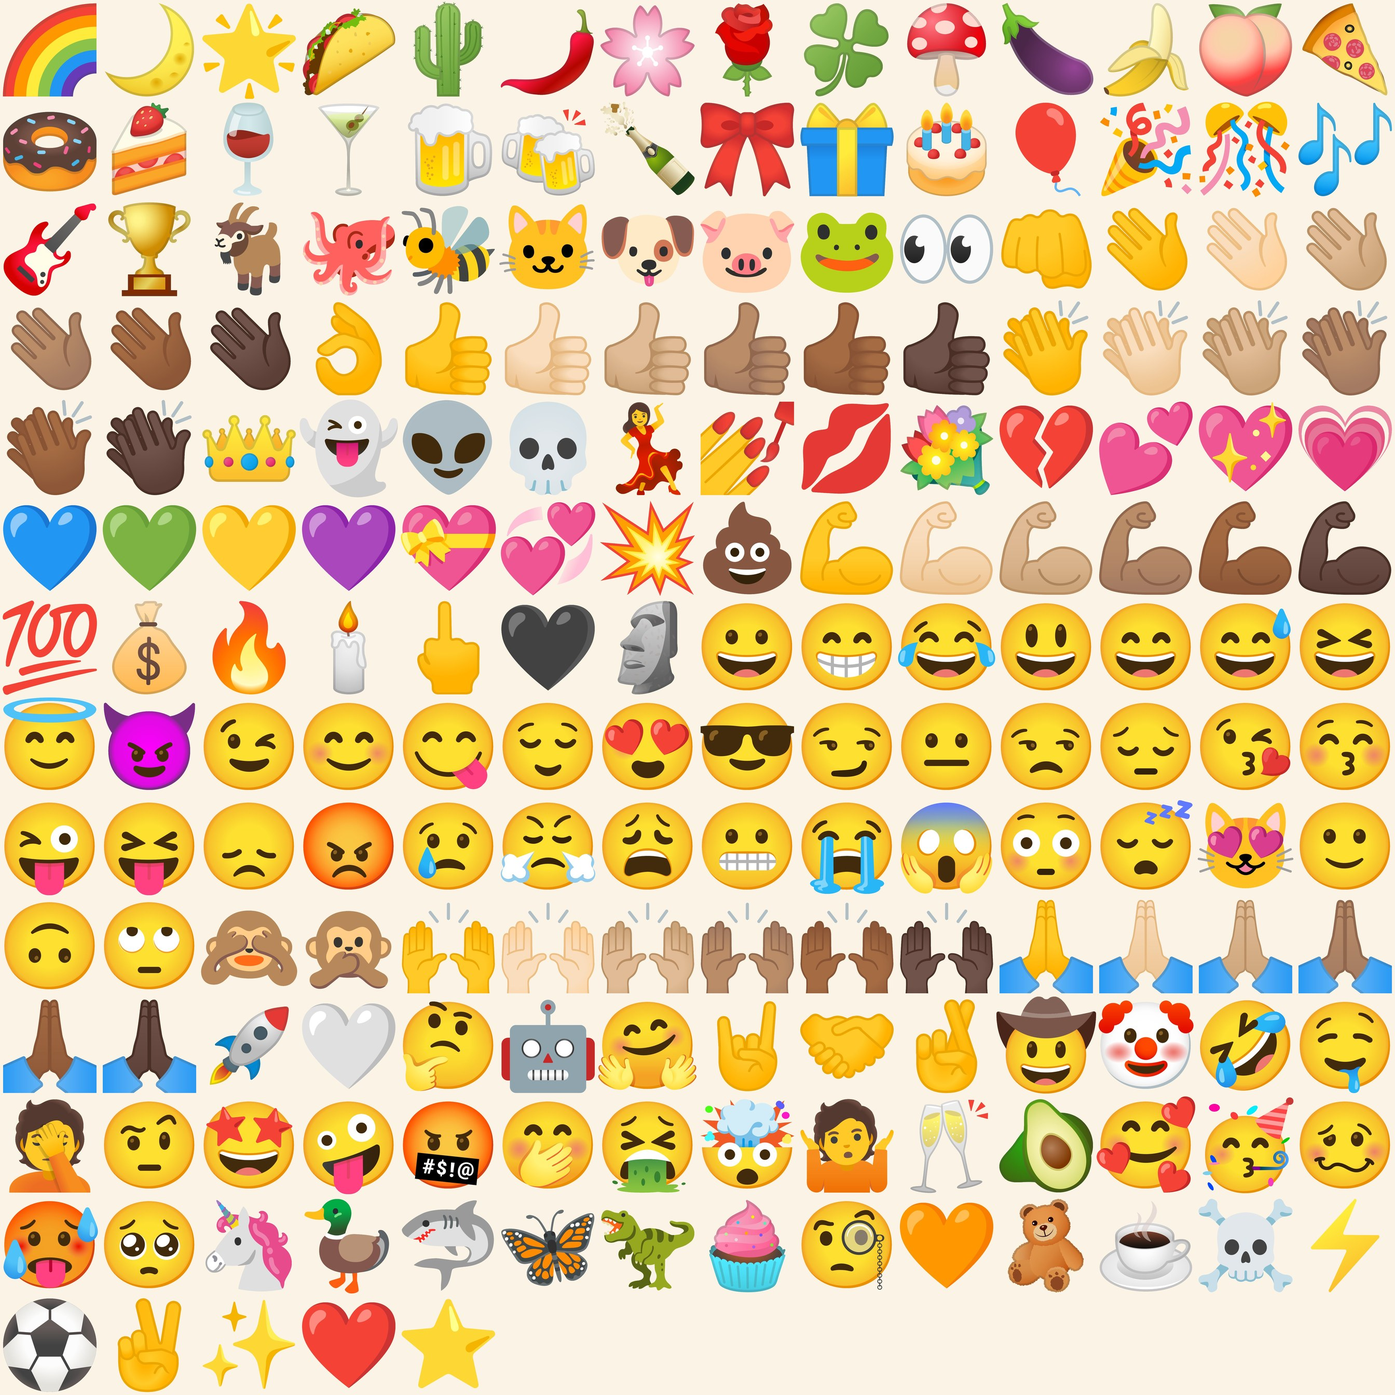
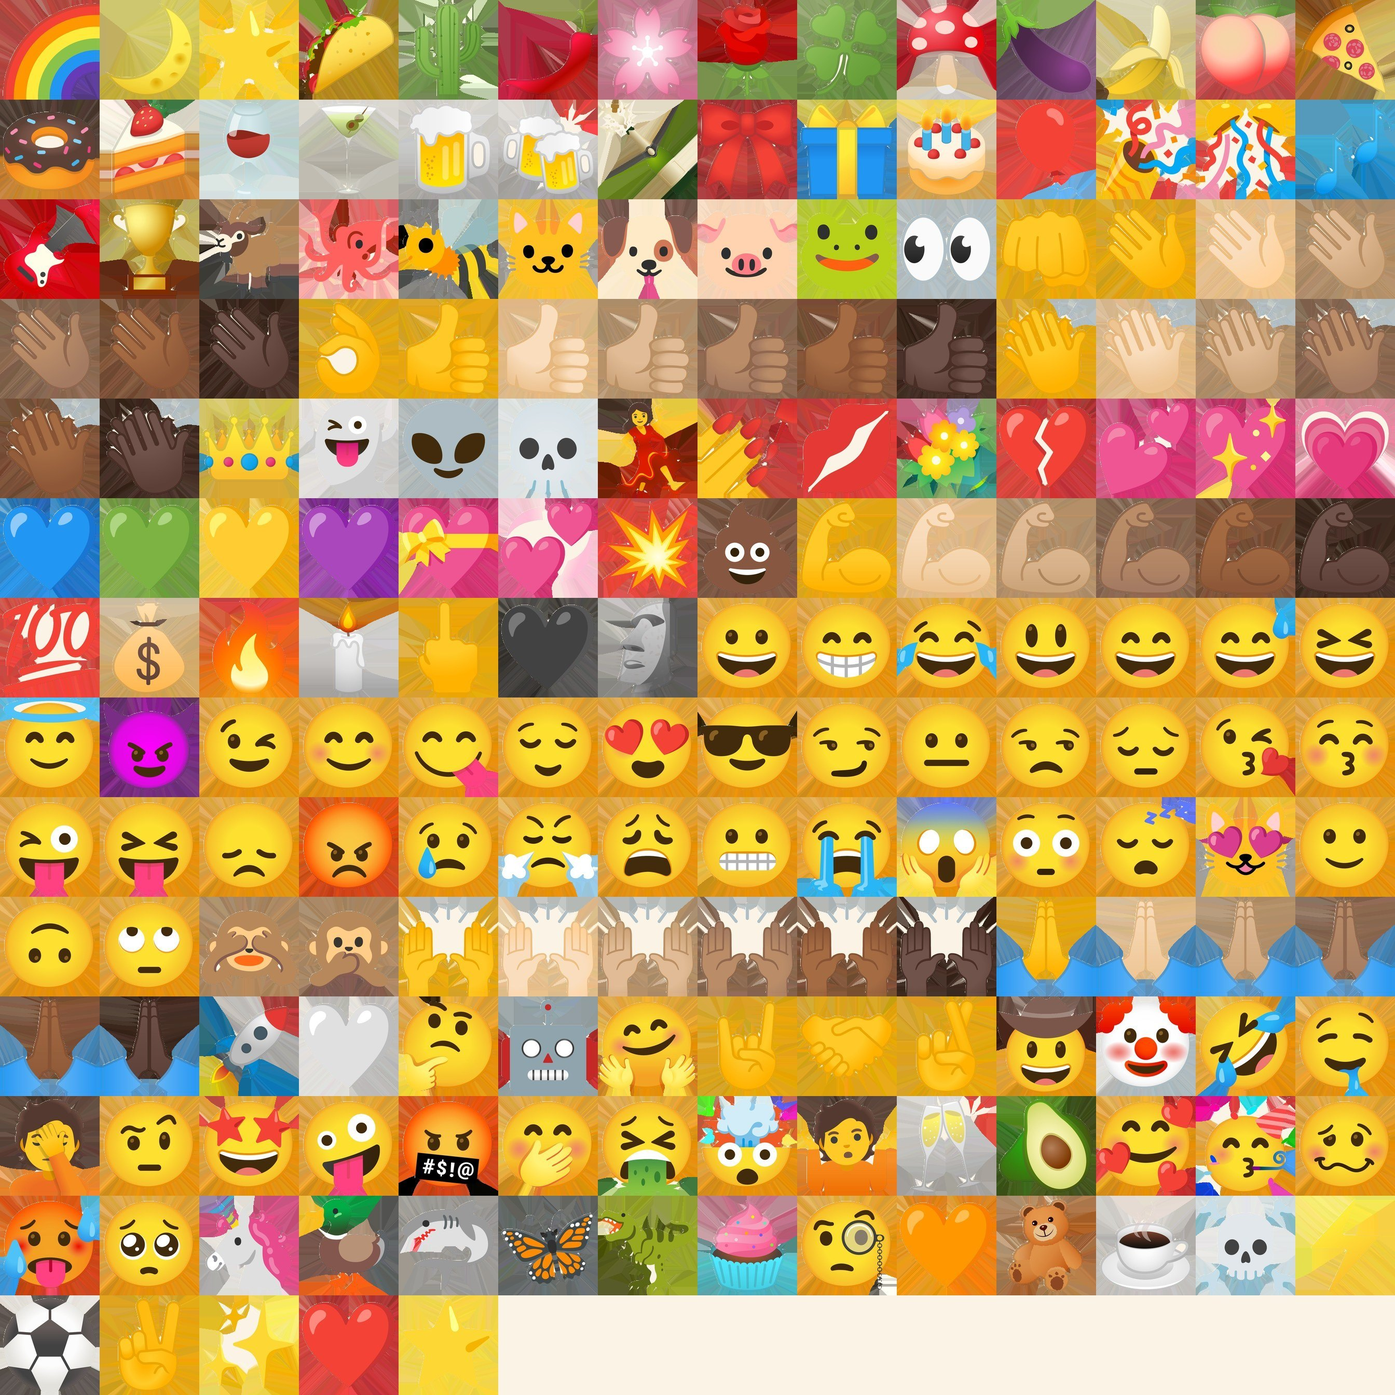
Add files via upload

diff --git a/toppers.js b/toppers.js
@@ -5,7 +5,7 @@
    create(deps) → { parse(text) → { keys, unknown }, part(key, H) → { geo, width, top, foot, material() },
                     available(key), label(key), texture(key) }
    Emojis: Noto Emoji artwork (Apache 2.0 — emoji/NOTICE.txt), prepared offline into an outline
-   (joined into one shape with a cream wax rim) and a face printed on cream (emoji/<key>.jpg).
+   (joined into one shape) and its artwork printed right round it: front, back and rim (v1.30).
    deps: makeWaxMaterial(hex), NUM (the number candles' depth, bevel) */
 (function () {
   function create(deps) {
@@ -73,26 +73,80 @@
       t.offset.set((o.i % S.cols) / S.cols + inset, 1 - Math.floor(o.i / S.cols + 1) / S.rows + inset);
       return (texCache[key] = CakeResources.keep(t));
     }
-    // An emoji as a candle: its outline extruded to the number candles' depth and bevel, the face
-    // printed on the front (and mirrored on the back, so it reads the right way round from behind);
-    // the sides and rim sample the cream corner of the face image.
+    // v1.30: the traced outline is a polygon of ~55 points; drawn with straight lines, its long runs
+    // showed as flat cuts round the edge. Now a smooth curve runs through the same points
+    // (centripetal Catmull-Rom: through every point, without overshooting), a point every ~1.2% of
+    // the emoji's size, and genuine corners — a turn sharper than 55° — stay sharp.
+    var CORNER = Math.cos(55 * Math.PI / 180), STEP = 0.012;
+    function catmull(p0, p1, p2, p3, u) {
+      function d(a, b) { return Math.max(1e-6, Math.sqrt(Math.hypot(b[0] - a[0], b[1] - a[1]))); }
+      var t0 = 0, t1 = t0 + d(p0, p1), t2 = t1 + d(p1, p2), t3 = t2 + d(p2, p3), t = t1 + (t2 - t1) * u;
+      function lerp(a, b, ta, tb) { var w = (t - ta) / (tb - ta); return [a[0] + (b[0] - a[0]) * w, a[1] + (b[1] - a[1]) * w]; }
+      var A1 = lerp(p0, p1, t0, t1), A2 = lerp(p1, p2, t1, t2), A3 = lerp(p2, p3, t2, t3);
+      return lerp(lerp(A1, A2, t0, t2), lerp(A2, A3, t1, t3), t1, t2);
+    }
+    function crosses(o) {                                  // where the closed outline crosses itself, if anywhere
+      var n = o.length;
+      function side(a, b, c) { return (b[0] - a[0]) * (c[1] - a[1]) - (b[1] - a[1]) * (c[0] - a[0]); }
+      for (var i = 0; i < n; i++) {
+        var a = o[i], b = o[(i + 1) % n];
+        for (var j = i + 2; j < n; j++) {
+          if (i === 0 && j === n - 1) continue;
+          var c = o[j], d = o[(j + 1) % n];
+          if (side(a, b, c) * side(a, b, d) < 0 && side(c, d, a) * side(c, d, b) < 0) return [i, j];
+        }
+      }
+      return null;
+    }
+    function smoothOutline(pts) {
+      var n = pts.length; if (n < 4) return pts.slice();
+      function sub(a, b) { return [a[0] - b[0], a[1] - b[1]]; }
+      var sharp = pts.map(function (p, i) {
+        var a = sub(p, pts[(i - 1 + n) % n]), b = sub(pts[(i + 1) % n], p), la = Math.hypot(a[0], a[1]), lb = Math.hypot(b[0], b[1]);
+        return !la || !lb || (a[0] * b[0] + a[1] * b[1]) / (la * lb) < CORNER;
+      });
+      // Where two parts of the outline come very close (a narrow gap between legs, say), the curve's
+      // bulges could cross; there the source points stay straight, and it tries again.
+      for (var tries = 0; tries < 8; tries++) {
+        var out = [], from = [];
+        for (var i = 0; i < n; i++) {
+          var p1 = pts[i], p2 = pts[(i + 1) % n];
+          // at a corner the curve leaves (or arrives) heading straight along the side
+          var p0 = sharp[i] ? [2 * p1[0] - p2[0], 2 * p1[1] - p2[1]] : pts[(i - 1 + n) % n];
+          var p3 = sharp[(i + 1) % n] ? [2 * p2[0] - p1[0], 2 * p2[1] - p1[1]] : pts[(i + 2) % n];
+          var steps = Math.max(1, Math.ceil(Math.hypot(p2[0] - p1[0], p2[1] - p1[1]) / STEP));
+          for (var k = 0; k < steps; k++) { out.push(catmull(p0, p1, p2, p3, k / steps)); from.push(i); }
+        }
+        var x = crosses(out);
+        if (!x) return out;
+        [from[x[0]], from[x[1]]].forEach(function (i) { for (var d = -1; d <= 2; d++) sharp[(i + d + n) % n] = true; });
+      }
+      return pts.slice();                                  // still crossing: the traced polygon as it was
+    }
+    // An emoji as a topper: its outline extruded to the number candles' depth and rounded edge, and
+    // (v1.30) its artwork printed right round it with ONE flat mapping. The front shows the emoji;
+    // the back shows its mirror image, which is what lines up with the shape seen from behind (like
+    // a real two-sided topper cut from one piece — lettering reads backwards there, as the numbers
+    // do); and the rim and rounded edges pick up the colour at the emoji's own edge, because the
+    // sheet carries each emoji's edge colour outward past its outline (emoji/NOTICE.txt).
     function part(key, H) {
       var gk = key + '@' + H.toFixed(3);
       if (geoCache[gk]) return geoCache[gk];
       var e = window.CakeEmojiOutlines && window.CakeEmojiOutlines[key]; if (!e) return null;
       var sh = new THREE.Shape();
-      e.p.forEach(function (p, i) { if (i === 0) sh.moveTo(p[0], p[1]); else sh.lineTo(p[0], p[1]); });
+      smoothOutline(e.p).forEach(function (p, i) { if (i === 0) sh.moveTo(p[0], p[1]); else sh.lineTo(p[0], p[1]); });
       var s = H, NUM = deps.NUM, bev = NUM.bevel;
       var geo = new THREE.ExtrudeGeometry(sh, { depth: (NUM.depth - 2 * bev) / s, bevelEnabled: true, bevelThickness: bev / s, bevelSize: bev / s * 0.8, bevelSegments: 5, curveSegments: 4 });
       geo.scale(s, s, s); geo.computeBoundingBox();
       var bb = geo.boundingBox, cx = (bb.min.x + bb.max.x) / 2, cy0 = bb.min.y, cz = (bb.min.z + bb.max.z) / 2;
-      geo.translate(-cx, -cy0, -cz); geo.computeBoundingBox(); bb = geo.boundingBox; geo.computeVertexNormals();
-      var pos = geo.attributes.position, uv = geo.attributes.uv, nrm = geo.attributes.normal, top = { x: 0, y: -1e9 }, lows = [];
+      geo.translate(-cx, -cy0, -cz); geo.computeBoundingBox(); bb = geo.boundingBox;
+      CakeShapes.smoothNormals(geo, 50);                   // v1.30: smooth walls and rounded edges; corners stay crisp
+      var pos = geo.attributes.position, uv = geo.attributes.uv, top = { x: 0, y: -1e9 }, lows = [];
       var centre = e.w === 'centre', w2 = bb.max.x - bb.min.x;
       for (var i = 0; i < pos.count; i++) {
         var x = pos.getX(i), y = pos.getY(i), z = pos.getZ(i);
-        if (Math.abs(nrm.getZ(i)) > 0.5) { var u = (x + cx) / s, v = (y + cy0) / s; uv.setXY(i, z < 0 ? 1 - u : u, v); }
-        else uv.setXY(i, 0.01, 0.01);                               // sides: the cream corner
+        var u = (x + cx) / s, v = (y + cy0) / s;               // every vertex: straight through the artwork
+        uv.setXY(i, Math.min(0.996, Math.max(0.004, u)), Math.min(0.996, Math.max(0.004, v)));
         if (y > top.y && (!centre || Math.abs(x) < w2 * 0.08)) top = { x: x, y: y };
         if (y < bb.min.y + 0.03) lows.push(x);
       }
@@ -102,7 +156,7 @@
       return (geoCache[gk] = { geo: geo, width: w2, top: top, foot: lows.length ? lows.reduce(function (a, b) { return a + b; }, 0) / lows.length : 0,
         material: function () { var m = deps.makeWaxMaterial(0xffffff); m.map = texture(key); return m; } });
     }
-    return { parse: parse, part: part, ready: ready, ensure: ensure, available: function (k) { return !!E[k]; }, count: function () { return Object.keys(E).filter(function (k) { return !TONES.some(function (t) { return k.indexOf(t) >= 0; }); }).length; }, texture: texture, keyOf: keyOf };
+    return { parse: parse, part: part, ready: ready, ensure: ensure, available: function (k) { return !!E[k]; }, count: function () { return Object.keys(E).filter(function (k) { return !TONES.some(function (t) { return k.indexOf(t) >= 0; }); }).length; }, texture: texture, keyOf: keyOf, smoothOutline: smoothOutline };
   }
   window.CakeToppers = { create: create };
 })();

diff --git a/index.html b/index.html
@@ -7,7 +7,7 @@
   <meta name="description" content="Someone sent you a cake.">
   <meta property="og:title" content="Someone sent you a cake 🎂">
   <meta property="og:description" content="Open it, blow out the candles, share a slice.">
-  <link rel="stylesheet" href="style.css?v=1.29">
+  <link rel="stylesheet" href="style.css?v=1.30">
 </head>
 <body class="mode-builder">
   <!-- v0.9: the cake (and the box) are objects you hold — spin, tilt, twist. No hash = builder. Hash = viewer. -->
@@ -306,58 +306,58 @@
 
   <script src="vendor/three.min.js"></script>
   <!-- Screen-space ambient occlusion (three r128 examples, unmodified) -->
-  <script src="vendor/SimplexNoise.js?v=1.29"></script>
-  <script src="vendor/Pass.js?v=1.29"></script>
-  <script src="vendor/CopyShader.js?v=1.29"></script>
-  <script src="vendor/SSAOShader.js?v=1.29"></script>
-  <script src="vendor/SSAOPass.js?v=1.29"></script>
-  <script src="debug.js?v=1.29"></script>
-  <script src="resources.js?v=1.29"></script>
-  <script src="patch.js?v=1.29"></script>
-  <script src="shaders.js?v=1.29"></script>
-  <script src="color.js?v=1.29"></script>
-  <script src="palettes.js?v=1.29"></script>
-  <script src="schema.js?v=1.29"></script>
-  <script src="store.js?v=1.29"></script>
-  <script src="animate.js?v=1.29"></script>
-  <script src="pcss.js?v=1.29"></script>
-  <script src="stage.js?v=1.29"></script>
-  <script src="look.js?v=1.29"></script>
-  <script src="shapes.js?v=1.29"></script>
-  <script src="digits.js?v=1.29"></script>
-  <script src="frosting.js?v=1.29"></script>
-  <script src="scene.js?v=1.29"></script>
-  <script src="pipeline.js?v=1.29"></script>
-  <script src="materials.js?v=1.29"></script>
-  <script src="sponge.js?v=1.29"></script>
-  <script src="tiers.js?v=1.29"></script>
-  <script src="ribbon.js?v=1.29"></script>
-  <script src="body.js?v=1.29"></script>
-  <script src="candles.js?v=1.29"></script>
-  <script src="flames.js?v=1.29"></script>
-  <script src="sparklers.js?v=1.29"></script>
-  <script src="emoji/index.js?v=1.29"></script>
+  <script src="vendor/SimplexNoise.js?v=1.30"></script>
+  <script src="vendor/Pass.js?v=1.30"></script>
+  <script src="vendor/CopyShader.js?v=1.30"></script>
+  <script src="vendor/SSAOShader.js?v=1.30"></script>
+  <script src="vendor/SSAOPass.js?v=1.30"></script>
+  <script src="debug.js?v=1.30"></script>
+  <script src="resources.js?v=1.30"></script>
+  <script src="patch.js?v=1.30"></script>
+  <script src="shaders.js?v=1.30"></script>
+  <script src="color.js?v=1.30"></script>
+  <script src="palettes.js?v=1.30"></script>
+  <script src="schema.js?v=1.30"></script>
+  <script src="store.js?v=1.30"></script>
+  <script src="animate.js?v=1.30"></script>
+  <script src="pcss.js?v=1.30"></script>
+  <script src="stage.js?v=1.30"></script>
+  <script src="look.js?v=1.30"></script>
+  <script src="shapes.js?v=1.30"></script>
+  <script src="digits.js?v=1.30"></script>
+  <script src="frosting.js?v=1.30"></script>
+  <script src="scene.js?v=1.30"></script>
+  <script src="pipeline.js?v=1.30"></script>
+  <script src="materials.js?v=1.30"></script>
+  <script src="sponge.js?v=1.30"></script>
+  <script src="tiers.js?v=1.30"></script>
+  <script src="ribbon.js?v=1.30"></script>
+  <script src="body.js?v=1.30"></script>
+  <script src="candles.js?v=1.30"></script>
+  <script src="flames.js?v=1.30"></script>
+  <script src="sparklers.js?v=1.30"></script>
+  <script src="emoji/index.js?v=1.30"></script>
   <script>
     // A link with emoji toppers loads their outlines before the cake is built (v1.24), so the
     // recipient's cake is complete from the first frame. Everyone else loads them only when needed.
-    window.CAKE_VERSION = '1.29';
+    window.CAKE_VERSION = '1.30';
     (function () {
       var m = /[#&]c=([A-Za-z0-9_-]+)/.exec(location.hash || ''); if (!m) return;
-      try { var raw = atob(m[1].replace(/-/g, '+').replace(/_/g, '/')); if (/^2\|/.test(raw) && /\|te=[^|]/.test(raw)) document.write('<script src="emoji/outlines.js?v=1.29"><\/script>'); } catch (e) {}
+      try { var raw = atob(m[1].replace(/-/g, '+').replace(/_/g, '/')); if (/^2\|/.test(raw) && /\|te=[^|]/.test(raw)) document.write('<script src="emoji/outlines.js?v=1.30"><\/script>'); } catch (e) {}
     })();
   </script>
-  <script src="toppers.js?v=1.29"></script>
-  <script src="placement.js?v=1.29"></script>
-  <script src="smoke.js?v=1.29"></script>
-  <script src="mic.js?v=1.29"></script>
-  <script src="blowout.js?v=1.29"></script>
-  <script src="spin.js?v=1.29"></script>
-  <script src="confetti.js?v=1.29"></script>
-  <script src="cut.js?v=1.29"></script>
-  <script src="message.js?v=1.29"></script>
-  <script src="sprinkles.js?v=1.29"></script>
-  <script src="dev.js?v=1.29"></script>
-  <script src="app.js?v=1.29"></script>
-  <div id="build-tag" aria-hidden="true">v1.29</div>
+  <script src="toppers.js?v=1.30"></script>
+  <script src="placement.js?v=1.30"></script>
+  <script src="smoke.js?v=1.30"></script>
+  <script src="mic.js?v=1.30"></script>
+  <script src="blowout.js?v=1.30"></script>
+  <script src="spin.js?v=1.30"></script>
+  <script src="confetti.js?v=1.30"></script>
+  <script src="cut.js?v=1.30"></script>
+  <script src="message.js?v=1.30"></script>
+  <script src="sprinkles.js?v=1.30"></script>
+  <script src="dev.js?v=1.30"></script>
+  <script src="app.js?v=1.30"></script>
+  <div id="build-tag" aria-hidden="true">v1.30</div>
 </body>
 </html>

diff --git a/shapes.js b/shapes.js
@@ -367,7 +367,51 @@
     }
     return geo;
   }
-  window.CakeShapes = { RIB: RIB, ribbon: ribbon,
+  // v1.30: smooth shading for extruded shapes (the number and emoji toppers). three's ExtrudeGeometry
+  // gives every face its own corners, so its normals are flat and each panel of a wall or a rounded
+  // edge shades as a separate facet. This averages the normals of the faces meeting at each point,
+  // weighted by their size, but only across faces within `crease` degrees of each other, so real
+  // corners (a 7's top, a heart's tip) stay crisp.
+  function smoothNormals(geo, crease) {
+    var pos = geo.attributes.position, n = pos.count;
+    if (geo.index) { geo.computeVertexNormals(); return geo; }
+    var lim = Math.cos((crease || 50) * Math.PI / 180);
+    var fn = new Float32Array(n * 3), un = new Float32Array(n * 3);
+    var a = new THREE.Vector3(), b = new THREE.Vector3(), c = new THREE.Vector3();
+    for (var f = 0; f + 2 < n; f += 3) {
+      a.fromBufferAttribute(pos, f); b.fromBufferAttribute(pos, f + 1); c.fromBufferAttribute(pos, f + 2);
+      c.sub(b); b.sub(a); b.cross(c);                       // twice the face's area, along its normal
+      var L = b.length();
+      for (var k = 0; k < 3; k++) {
+        var o = (f + k) * 3;
+        fn[o] = b.x; fn[o + 1] = b.y; fn[o + 2] = b.z;
+        if (L > 0) { un[o] = b.x / L; un[o + 1] = b.y / L; un[o + 2] = b.z / L; }
+      }
+    }
+    var groups = {}, q = 1e4;
+    for (var i = 0; i < n; i++) {
+      var key = Math.round(pos.getX(i) * q) + '_' + Math.round(pos.getY(i) * q) + '_' + Math.round(pos.getZ(i) * q);
+      (groups[key] || (groups[key] = [])).push(i);
+    }
+    var out = new Float32Array(n * 3);
+    Object.keys(groups).forEach(function (key) {
+      var g = groups[key];
+      for (var x = 0; x < g.length; x++) {
+        var i = g[x] * 3, sx = 0, sy = 0, sz = 0;
+        for (var y = 0; y < g.length; y++) {
+          var j = g[y] * 3;
+          if (un[i] * un[j] + un[i + 1] * un[j + 1] + un[i + 2] * un[j + 2] >= lim) { sx += fn[j]; sy += fn[j + 1]; sz += fn[j + 2]; }
+        }
+        var L = Math.hypot(sx, sy, sz);
+        if (L > 1e-12) { out[i] = sx / L; out[i + 1] = sy / L; out[i + 2] = sz / L; }
+        else if (un[i] || un[i + 1] || un[i + 2]) { out[i] = un[i]; out[i + 1] = un[i + 1]; out[i + 2] = un[i + 2]; }
+        else out[i + 2] = 1;                                   // a zero-area sliver: any sane normal
+      }
+    });
+    geo.setAttribute('normal', new THREE.BufferAttribute(out, 3));
+    return geo;
+  }
+  window.CakeShapes = { RIB: RIB, ribbon: ribbon, smoothNormals: smoothNormals,
                         P: P, bodyProfile: bodyProfile, capProfile: capProfile, body: body, cap: cap, shell: shell, cutFace: cutFace, radiusAt: radiusAt, bandGeometry: bandGeometry,
                         disc: disc, discTop: discTop, discFace: discFace, merge: merge, faceAt: faceAt, bakeAO: bakeAO };
 })();

diff --git a/app.js b/app.js
@@ -2508,6 +2508,10 @@
     var shuf = $('chiprow').querySelector('.chip[data-action="shuffle"]');
     if (shuf) shuf.addEventListener('click', function () {
       draft = STORE.set(applyRandomLook(draft, false), { silent: true });
+      // v1.30: the new cake arrives facing you — its toppers and writing to the front — with your
+      // tilt, zoom and any spin you've given it kept. The whole cake changes at this instant (and
+      // the light usually does too), so the view's turn round to the front doesn't show.
+      camAzimuth = FRONT_AZ;
       updateRoomLights();                                 // key light re-randomised (no shader change)
       syncForm(); updateColourNote(); updateCta();
       STORE.commit({ showMessage: true });
@@ -3025,6 +3029,7 @@
     light: function (i) { applyLightPreset(i | 0, 0); updateRoomLights(); syncFrosting(); },
     settle: function () { camY = camTargetY; frameRadius = frameTarget; frameCamera(); },   // snap the camera's easing to its targets (the harness's renderer is too slow to let it settle)   // a light preset, without the generator's jitter (the harness needs a fixed one)
     __sprinkleKeys: function () { return SPRINKLES.keys(); },
+    __toppers: function () { return TOPPERS; },
     __layout: function () { return PLACE.last(); },   // incl. topperH, topperCapped (v1.29) __blocks: function () { return lastBlocks; },
     __candles: function () { return flames.map(function (f) { return [+f.x.toFixed(3), +f.z.toFixed(3), +f.y.toFixed(3)]; }); },
     __tierY0: function () { return tierTops(config).map(function (t) { return CakeSprinkles.tierKey(t); }); },

diff --git a/candles.js b/candles.js
@@ -234,7 +234,7 @@
         if (y < bb.min.y + 0.03) lows.push(x);
       }
       uv.needsUpdate = true;
-      geo.computeVertexNormals();
+      CakeShapes.smoothNormals(geo, 50);                   // v1.30: one smooth surface, not flat facets
       geo.setAttribute('aLit', new THREE.Float32BufferAttribute(new Float32Array(pos.count).fill(1), 1));   // the wax shader's per-candle glow switch; per digit it's driven by the material instead
       CakeResources.keep(geo);
       return (digitCache[key] = { geo: geo, width: bb.max.x - bb.min.x, top: top,

diff --git a/README.md b/README.md
@@ -1,26 +1,31 @@
-# Cake — v1.29 (toppers sized to the cake, with a Size slider)
+# Cake — v1.30 (smooth emoji toppers, printed right round; Shuffle faces you)
 
-The tag reads **v1.29**.
+The tag reads **v1.30**.
 
-**Toppers are sized to the top tier.** A topper's height is now a set share of the top tier's
-width (about 27%), at every width, so widening the cake always grows them and narrowing always
-shrinks them. On the Classic shape with fondant they're exactly the size they were before. Until
-now they only responded across a narrow band of widths: full size at notch 7 and wider (never
-bigger), 70% at notch 4 and narrower.
+**Smooth emoji edges.** Each emoji's traced outline (about 55 points, joined by straight lines —
+the flat "cuts" round the edge) is now a smooth curve through the same points, about 300 points
+round, with genuine corners kept sharp. Where two parts of an outline come very close (💃), the
+curve stays straight at just those points so it can't cross itself.
 
-**A Size slider** in the Toppers tray scales the whole row from 60% to 140% (100% to start). It
-travels in the link (a new field, `tz`; a cake without it gets 100%), and Shuffle always uses 100%.
-It's dimmed until there's a topper to size.
+**Smooth shading.** The walls and rounded edges were shaded panel by panel, hence the banding. Now
+they shade as one smooth surface, with real corners kept crisp. The numbers get the same
+treatment, so the emoji edges now round off exactly like the numbers'.
 
-**Two limits.** The row must still fit across the top: if the chosen size would overhang, it stops
-at the largest size that fits and the tray says "As big as fits on this top tier" — the slider keeps
-your choice, so widening the cake afterwards lets the toppers grow into it. And toppers aren't made
-shorter than about a candle (0.75), unless that's the only way they fit. Bigger toppers leave less
-room for candles; v1.28's layout moves candles to the next free spots.
+**The back is a true mirror image.** The back used to be flipped to read the right way round, which
+stopped it lining up with the shape seen from behind: on an asymmetric emoji the picture fell off
+the edge. Now front and back use one mapping, so the back lines up exactly, like a real two-sided
+topper. Lettering (💯) reads backwards from behind, as the numbers do.
 
-Checked in the harness: Classic with fondant 1.30 (unchanged), Classic naked 1.24, notch 5 0.98,
-notch 10 1.52; 60% 0.78; "30❤" at 140% on Classic fits at 1.60 (about 123%) with the note showing;
-the note clears when the toppers are removed; the size survives a link round-trip, and a link
-without it reads 100%; the six saved links decode unchanged.
+**The emoji's own colour on the rim.** The rim and rounded edges used to be cream. The sprite sheet
+now carries each emoji's edge colour outward past its outline, so the rim picks up the colour at
+that point of the emoji. The one cream line at the very edge of the face is gone too.
 
-Changed files: `placement.js`, `app.js`, `schema.js`, `index.html`, `style.css`, `README.md`.
+**Shuffle faces you.** The new cake arrives facing the front — toppers and writing to you — with
+your tilt, zoom and any spin kept.
+
+Checked in the harness: all 187 emojis build with sound shapes (no crossings, no broken normals);
+close-ups front and back as described; Shuffle from turned-away (2.6) arrives at the front (0.2)
+with the tilt kept; the six saved links decode unchanged.
+
+Changed files: `toppers.js`, `shapes.js`, `candles.js`, `app.js`, `index.html`, `emoji/sheet.jpg`,
+`emoji/NOTICE.txt`, `README.md`.
